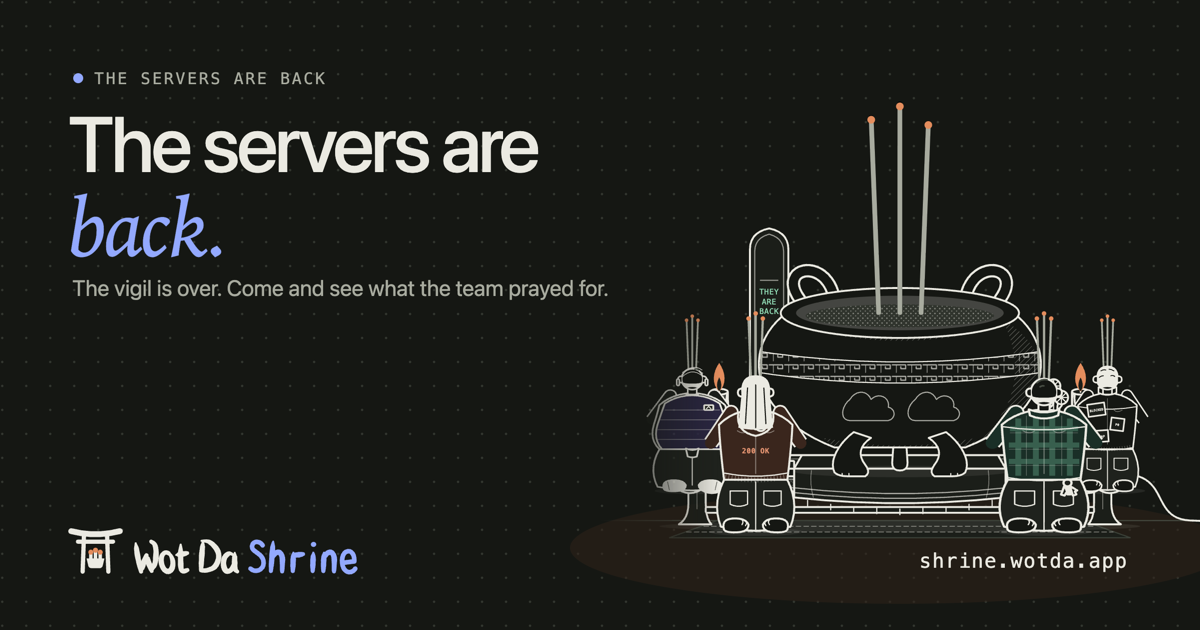
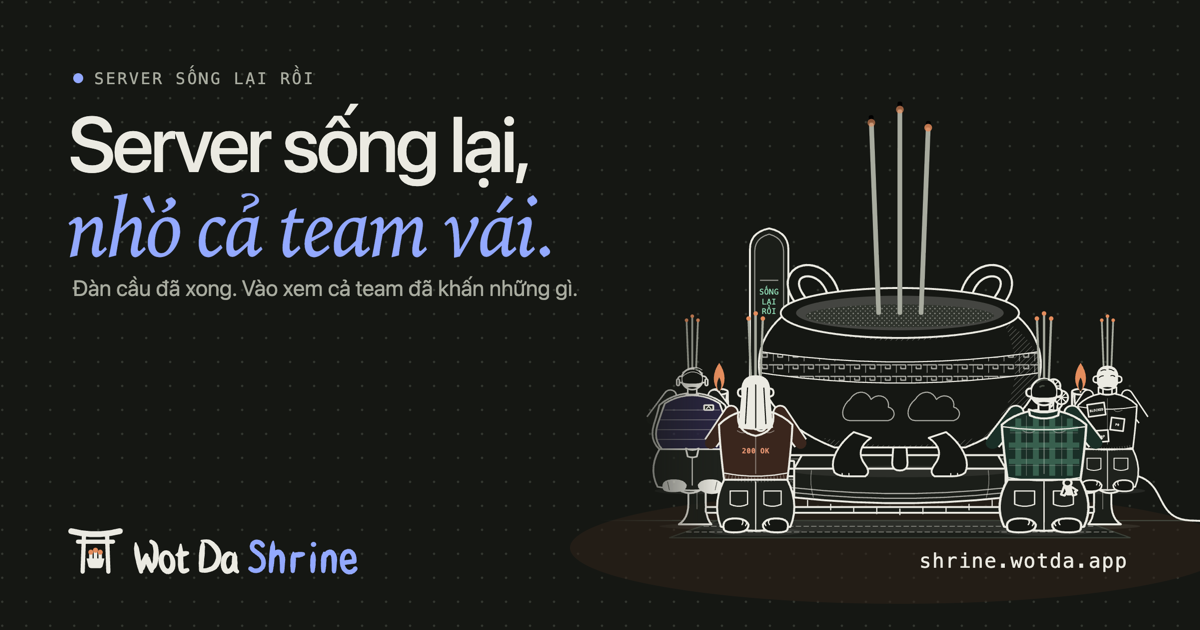
Make a room's link preview Vietnamese through an outage too: og-down.png and og-back.png are drawn again from new 'down-vi' and 'back-vi' cards (Server sập rồi, / vào khấn đi thôi. and Server sống lại, / nhờ cả team vái., in the dark theme with the altar lit as before, the back one's tablet saying S

diff --git a/shared/vi/preview.js b/shared/vi/preview.js
@@ -7,8 +7,8 @@ import { QUICK_PRAYERS } from './prayers.js';
 
 /** Mọi chữ của bản xem trước, bằng tiếng Việt. */
 export const PREVIEW_WORDS = {
-  quietDays: '{n} ngày không sự cố',
-  quietDay: 'trọn một ngày không sự cố',
+  quietDays: '{n} ngày không sập',
+  quietDay: 'trọn một ngày không sập',
   quietHours: 'yên ả được {n} tiếng',
   quietHour: 'yên ả được một tiếng',
   kami: 'kami đang {mood}',
@@ -27,19 +27,19 @@ export const PREVIEW_WORDS = {
   guarded: 'kami canh 1 service',
   guardeds: 'kami canh {n} service',
   lastPrayer: 'Lời khấn mới nhất: “{text}”',
-  titleQuietDays: '{n} ngày không sự cố · {room}',
-  titleQuietDay: 'Trọn một ngày không sự cố · {room}',
+  titleQuietDays: '{n} ngày không sập · {room}',
+  titleQuietDay: 'Trọn một ngày không sập · {room}',
   titleDown: '{title} · vào {room} khấn cùng',
   titleBack: '{title} · sống lại rồi · {room}',
   titleQuiet: '{title} · {room}',
   plainDown: 'Server sập rồi · vào {room} khấn cùng',
   plainBack: 'Server sống lại rồi · {room}',
-  plain: 'Cầu cho server chạy ngon · {room}',
+  plain: 'Cả team cùng lạy, server lại chạy · {room}',
   /** Trang của một miếu nói gì khi chưa ai làm gì ở đó, hoặc khi đã quá giới hạn đọc. */
   idle: 'Team bạn đang cầu cho server. Thắp nhang, thỉnh chuông và gửi một lời khấn tới dàn rack.',
   altDown: 'Server đang sập. Tranh mực vẽ bàn thờ, nhang đã thắp, cả team đang khấn.',
   altBack: 'Server sống lại rồi. Tranh mực vẽ bàn thờ sau đàn cầu.',
-  alt: 'Tranh mực vẽ bát nhang trên bàn thờ trong chùa, kèm dòng chữ: cùng nhau cầu uptime. Ngày vái một lần. Cầu an cho deploy. Nhớ cho kami ăn.',
+  alt: 'Tranh mực vẽ bát nhang trên bàn thờ trong miếu, kèm dòng chữ: Cả team cùng lạy, server lại chạy. Vái mỗi ngày. Cầu an deploy. Nhớ cho kami ăn.',
   demoTitle: 'Dàn rack demo sập rồi',
   quickPrayers: QUICK_PRAYERS,
 };

diff --git a/src/app/shareSheet.js b/src/app/shareSheet.js
@@ -83,12 +83,15 @@ const PREVIEWS = {
   'home-vi': { eyebrow: 'TRƯỚC KHI SERVER SẬP', headline: ['Cả team cùng lạy,', 'server lại chạy.'], facts: 'Vái mỗi ngày. Cầu an deploy. Nhớ cho kami ăn.' },
   down: { eyebrow: 'THE SERVERS ARE DOWN', headline: ['The servers are', 'down.'], facts: 'The team is at the shrine. Open the link, kneel, and pray with them.' },
   back: { eyebrow: 'THE SERVERS ARE BACK', headline: ['The servers are', 'back.'], facts: 'The vigil is over. Come and see what the team prayed for.' },
+  // What og-down.png and og-back.png are for the Vietnamese launch, drawn like 'down' and 'back' on a page in Vietnamese
+  'down-vi': { eyebrow: 'SERVER ĐANG SẬP', headline: ['Server sập rồi,', 'vào khấn đi thôi.'], facts: 'Cả team đang ở miếu. Mở link, quỳ xuống, khấn cùng anh em.' },
+  'back-vi': { eyebrow: 'SERVER SỐNG LẠI RỒI', headline: ['Server sống lại,', 'nhờ cả team vái.'], facts: 'Đàn cầu đã xong. Vào xem cả team đã khấn những gì.' },
 };
 /** Who kneels in the pictures: the same four of the team every time, as many as the home page's chat card says are praying. */
 const PREVIEW_CAST = [['dev', 1], ['devops', 2], ['boss', 3], ['pm', 0]];
 export async function previewCard(kind) {
   const svg = cardSvg({
-    room: '', resolved: kind === 'back', people: 0, avatars: [], quotes: [], url: 'shrine.wotda.app', plain: true,
+    room: '', resolved: kind.startsWith('back'), people: 0, avatars: [], quotes: [], url: 'shrine.wotda.app', plain: true,
     kneelers: PREVIEW_CAST.map(([role, tone]) => lookOf(`preview:${role}`, role, tone)),
     ...(PREVIEWS[kind] ?? PREVIEWS.down),
   });

diff --git a/shared/preview.js b/shared/preview.js
@@ -43,7 +43,7 @@ export const PREVIEW_WORDS = {
   idle: 'Your team is praying for the servers. Light incense, ring the bowl and send a prayer to the rack.',
   altDown: 'The servers are down. An ink drawing of the altar, incense lit, the team praying.',
   altBack: 'The servers are back. An ink drawing of the altar after the vigil.',
-  alt: 'An ink drawing of an incense burner on an altar inside a temple, with the words: pray for uptime, together. Bow daily. Bless deploys. Keep the kami fed.',
+  alt: 'An ink drawing of an incense burner on an altar inside a temple, with the slogan in Vietnamese: Cả team cùng lạy, server lại chạy (the whole team bows, the servers run again). Bow daily. Bless deploys. Keep the kami fed.',
   /** The demo shrine's title (DEMO_META in the shrine is English): a preview of the demo says it in its own words. */
   demoTitle: 'The demo rack is down',
   quickPrayers: QUICK_PRAYERS,

diff --git a/src/partials/head.html b/src/partials/head.html
@@ -1,5 +1,6 @@
 <!-- The head every page shares. A room page's title, description and link preview are rewritten by the Worker (worker/views/roomPage.js).
-     The link preview (og:, twitter:) is in Vietnamese for the Vietnamese launch, whoever shares it; og.png is shareSheet.js's 'home-vi' card. -->
+     The link preview (og:, twitter:) is in Vietnamese for the Vietnamese launch, whoever shares it; og.png is shareSheet.js's 'home-vi' card
+     (and a room's og-down.png and og-back.png its 'down-vi' and 'back-vi'). -->
 <meta charset="utf-8" />
 <meta name="viewport" content="width=device-width, initial-scale=1.0, viewport-fit=cover" />
 <meta name="theme-color" content="#151713" />
